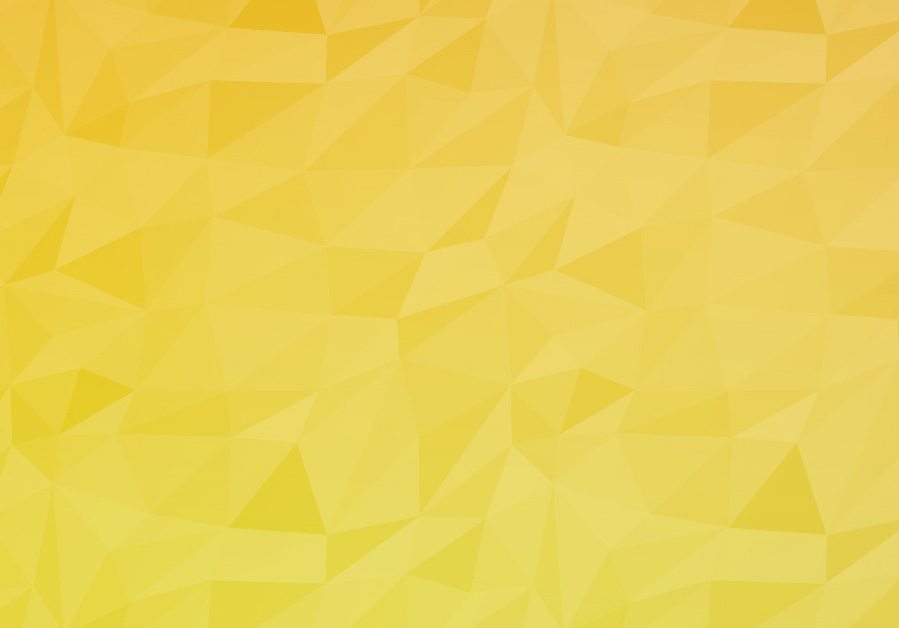
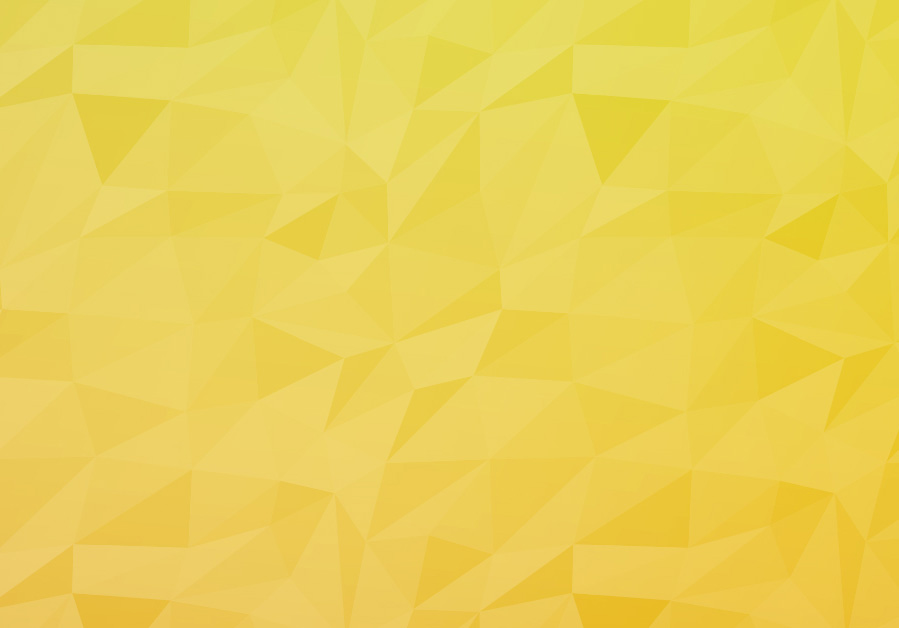
Changed picture orientation

diff --git a/index.html b/index.html
@@ -33,15 +33,13 @@
             <h1 class="yotta gutter whitetype"> MOT-CLIC</h1>    
                 <h2 class="peta gutter whitetype">A Social Marketing Platform that builds your business, engages consumers, and build meaningful relationships.</h2>
         </div>  
+        
         <div style="button" class="pad-t-3-4">
             <div style="button" class="pad-t pad-b">
             <button class="giga button" type="submit">Sign Up Now</a></button>
             </div>
         </div>
     </div>
-
-    
-    
 </header>
  
 <main>  
@@ -50,22 +48,25 @@
             <p> Minimize the complexities of social media management. Manage custom combinations of users, workflows, content, calendars, and channels in a single platform. Access a complete suite of social media analytics to make informed decisions.</p>
     </div>
     
-    <div>
+ <contentinfo class=" offering grid">
+    <div class="unit pad-t gutter unit-xs-1 unit-s-1 unit-m-1-3 unit-l-1-3">
         <img src="images/MKT14090_FamilyPfeiffer-FamilyShots-GRP1_MT_v1-FPO.jpg" alt="Connect">
             <figcaption class="peta yellowtype"><strong> Connect </strong></figcaption>
                 <p> Your social media efforts are growing across accounts, teams, and geographies. Managing the people, content, and workflows behind your social programs is more important than ever. Imagine a social marketing platform that can help youall your social accounts the way your business works.</p>
     </div>
 		
-    <div>
+    <div class="unit pad-t gutter unit-xs-1 unit-s-1 unit-m-1-3 unit-l-1-3">
             <img src="images/people_talking.jpg" alt="Communicate">
 				<figcaption class="peta yellowtype"><strong> Communicate </strong></figcaption>
                     <p> Social is always on—not the best news for your weekend or day off. The good news is that we give you a mobile application that alerts you when your attention is needed and allows you to do everything from schedule to publish to approve content on the go.</p>
     </div>
         
-    <div>
+    <div class="unit pad-t gutter unit-xs-1 unit-s-1 unit-m-1-3 unit-l-1-3">
             <img src="images/" alt="Fall">
                 <figcaption><strong>Fall Collection</strong><br>Autumn Adornment<br>$28.oo</figcaption>
-    </div>   
+    </div> 
+</contentinfo>
+    
 </main> 
     
 <footer class="footer gutter sectionlight">        
